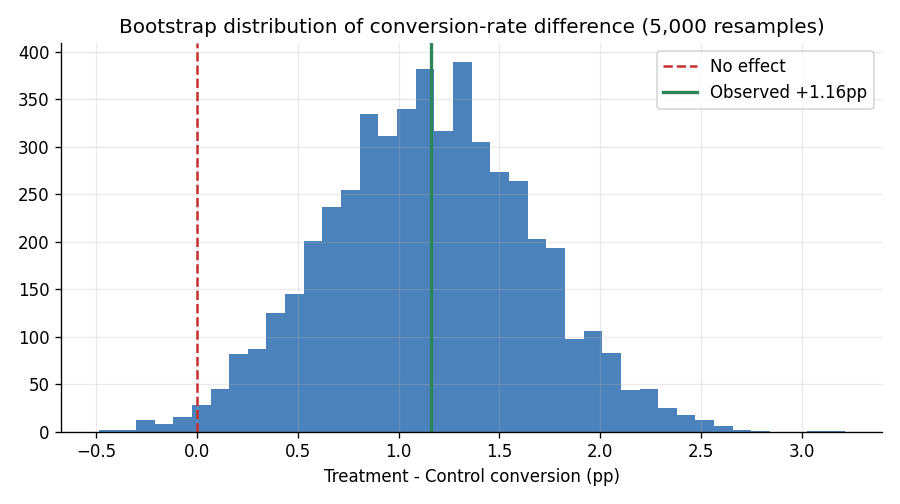
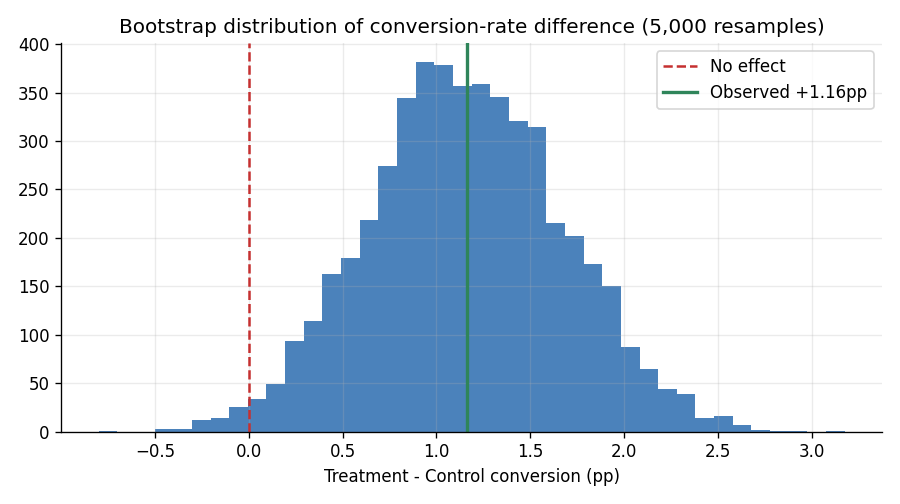
Derive the sample size from a target MDE before running, and add an SRM check
The power calculation was at the bottom of the script, describing the experiment
after the fact. It now sets the design: 1.5pp at 80% power needs 7,047 per arm,
so the experiment runs 8,000. Also adds the sample ratio mismatch check, which is
the first thing to look at in a real experiment before reading any result.

diff --git a/ab_test.py b/ab_test.py
@@ -22,9 +22,19 @@ BLUE, GREEN = "#2b6cb0", "#2f855a"
 rng = np.random.default_rng(21)
 
 # ---------- Design ----------
-n_per_arm = 8_000
+# Sample size is a decision made BEFORE the experiment runs, not a number you
+# report afterwards. Pick the smallest lift worth detecting, then solve for n.
 p_control = 0.114          # true baseline conversion
-p_treat = 0.129           # true treatment conversion (+1.5pp)
+p_treat = 0.129            # true treatment conversion (+1.5pp)
+
+ALPHA, POWER = 0.05, 0.80
+TARGET_MDE = 0.015         # smallest absolute lift the business cares about (1.5pp)
+_za = stats.norm.ppf(1 - ALPHA / 2)
+_zb = stats.norm.ppf(POWER)
+n_required = int(np.ceil(2 * p_control * (1 - p_control) * ((_za + _zb) / TARGET_MDE) ** 2))
+n_per_arm = 8_000          # rounded up from n_required to a clean allocation
+print(f"Design: detecting {TARGET_MDE*100:.1f}pp at {POWER:.0%} power (alpha={ALPHA}) "
+      f"needs {n_required:,} per arm; running {n_per_arm:,}")
 
 conv_c = rng.random(n_per_arm) < p_control
 conv_t = rng.random(n_per_arm) < p_treat
@@ -39,6 +49,15 @@ df = pd.DataFrame({
     "revenue": np.concatenate([rev_c, rev_t]).round(2),
 })
 df.to_csv("data/experiment.csv", index=False)
+
+# ---------- Sample ratio mismatch ----------
+# First thing to check in any real experiment: did the split come out as designed?
+# If the randomiser or the logging is broken, nothing downstream is worth reading.
+n_c, n_t = len(conv_c), len(conv_t)
+srm_chi2 = (n_c - n_t) ** 2 / (n_c + n_t)
+srm_p = 1 - stats.chi2.cdf(srm_chi2, df=1)
+print(f"SRM check: {n_c:,} vs {n_t:,} (chi2 p = {srm_p:.3f})"
+      + ("  OK" if srm_p > 0.01 else "  WARNING: split is not 50/50, stop here"))
 
 # ---------- Conversion analysis ----------
 x_c, x_t = conv_c.sum(), conv_t.sum()
@@ -55,9 +74,20 @@ p_value = 2*(1 - stats.norm.cdf(abs(z)))
 se_unpool = np.sqrt(cr_c*(1-cr_c)/n_per_arm + cr_t*(1-cr_t)/n_per_arm)
 ci = (abs_lift - 1.96*se_unpool, abs_lift + 1.96*se_unpool)
 
-# ---------- Revenue per user (Welch t-test) ----------
+# ---------- Revenue per user: GUARDRAIL metric ----------
+# Conversion is the primary metric and the ship decision rests on it alone.
+# Revenue per user is a guardrail: it is here to catch the case where conversion
+# goes up because people buy cheaper things. Treating both as primary would mean
+# two tests at alpha=0.05 and an inflated false positive rate.
+#
+# Revenue is zero for everyone who did not convert, so the distribution is a spike
+# at zero plus a skewed tail. A t-test survives that at this n by the CLT, but a
+# bootstrap interval makes no distributional assumption, so use that instead.
 t_stat, t_p = stats.ttest_ind(rev_t, rev_c, equal_var=False)
 rpu_c, rpu_t = rev_c.mean(), rev_t.mean()
+_bs = np.array([rng.choice(rev_t, n_per_arm).mean() - rng.choice(rev_c, n_per_arm).mean()
+                for _ in range(5000)])
+rpu_ci = (float(np.percentile(_bs, 2.5)), float(np.percentile(_bs, 97.5)))
 
 # ---------- Power / MDE ----------
 from math import sqrt
